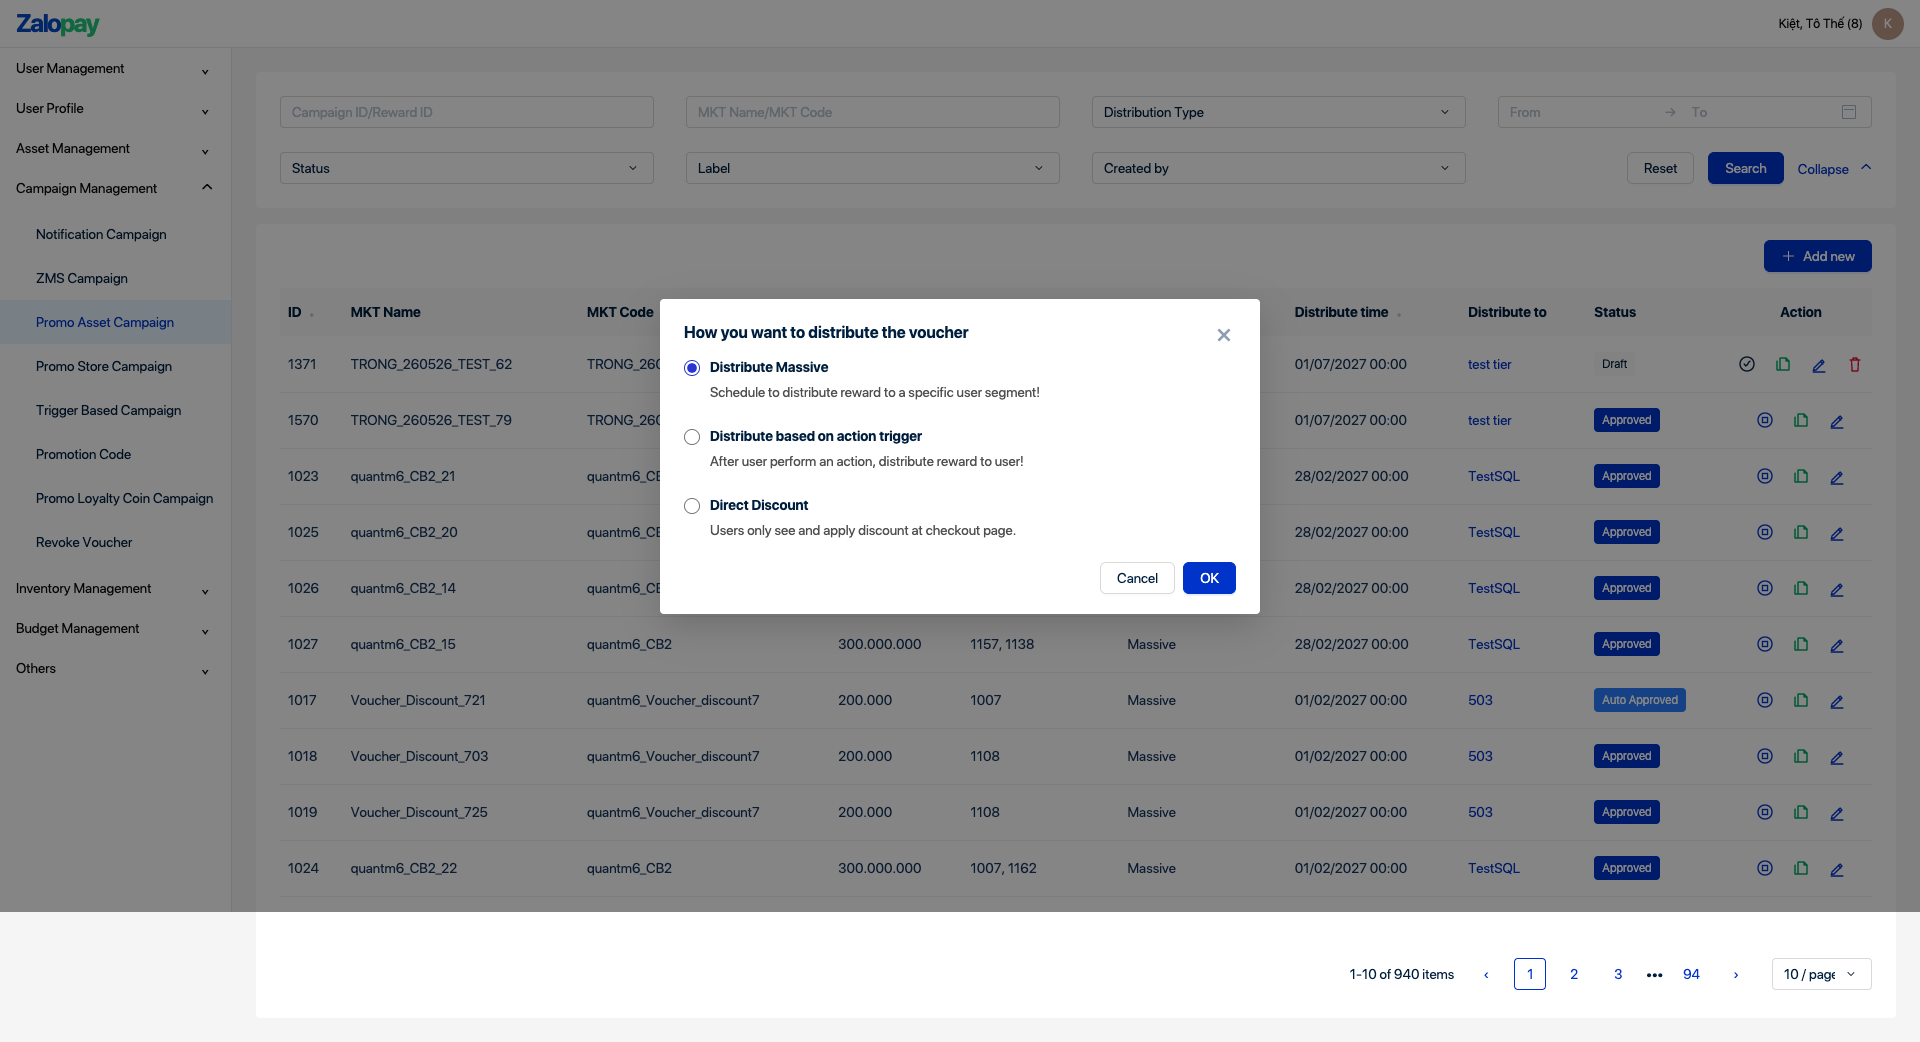
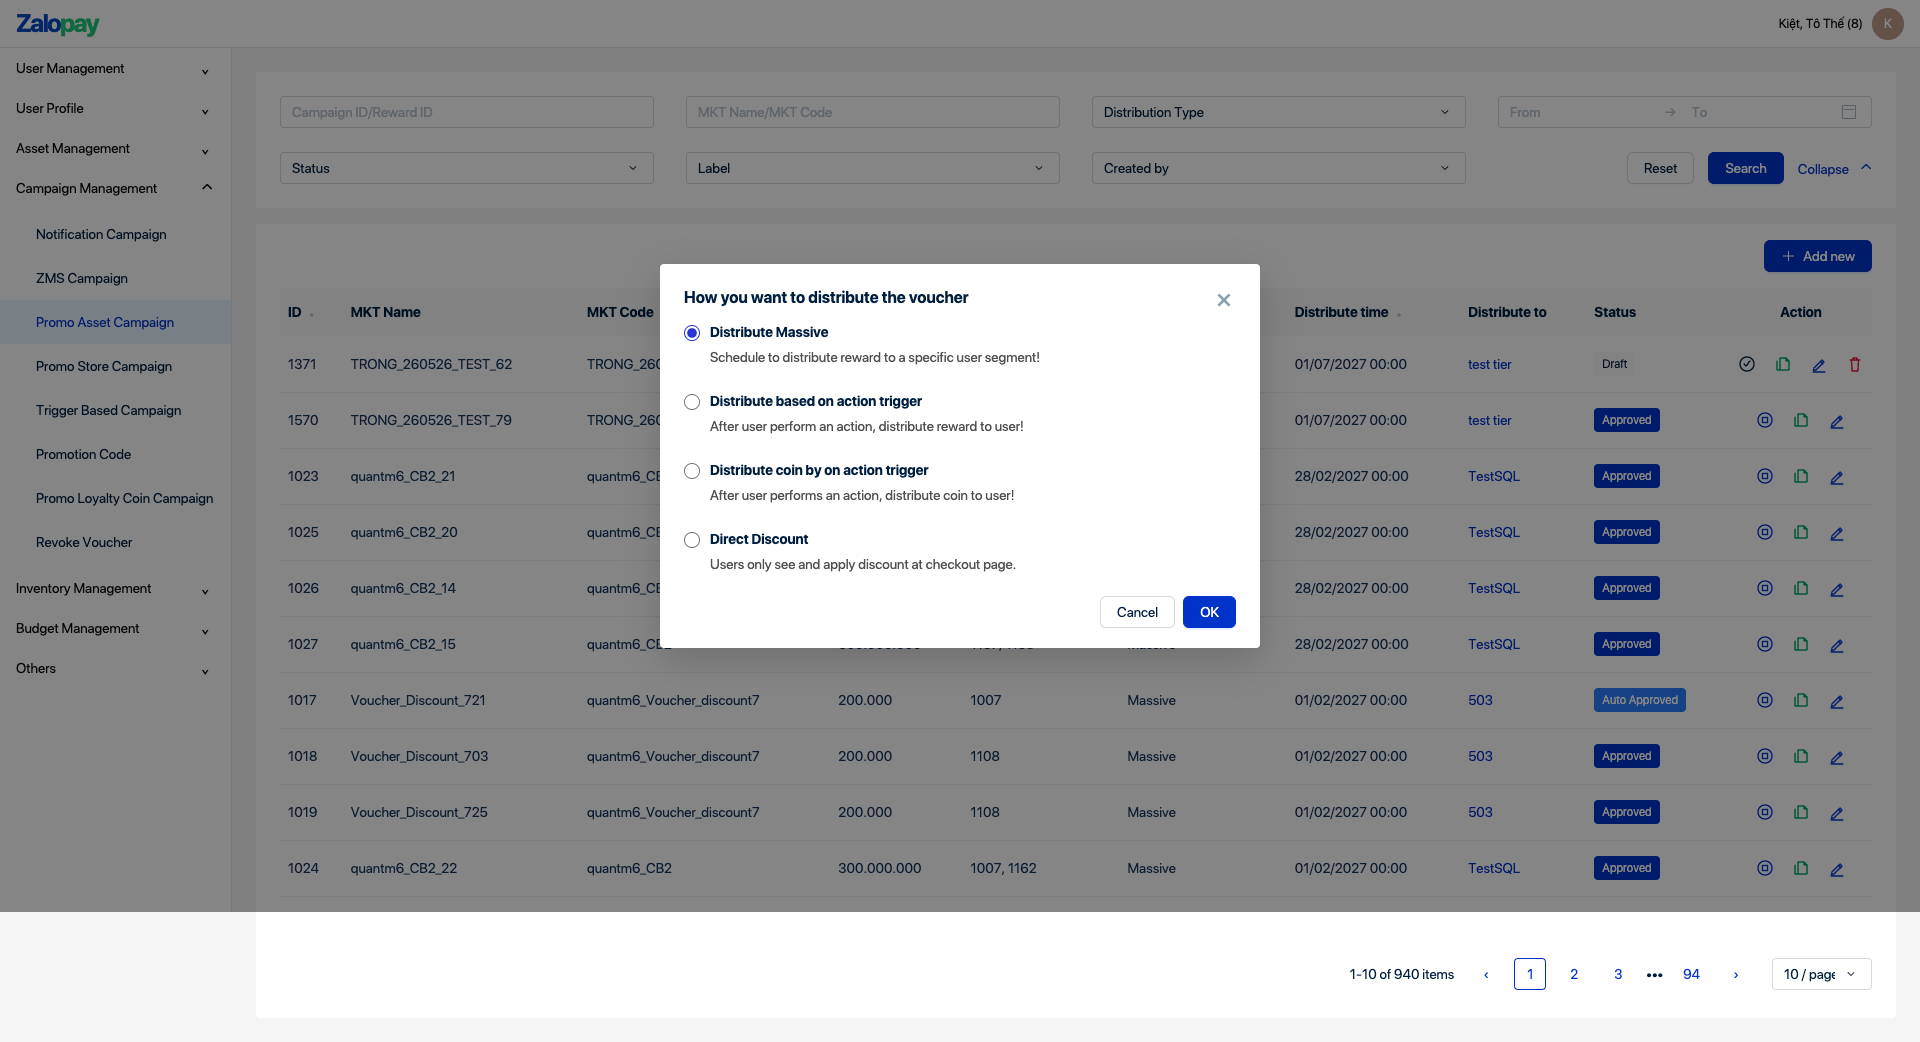
Add coin create entry to Promo Asset flow

Changed region(s): [[0.3438, 0.2457, 0.6562, 0.5528], [0.3438, 0.5221, 0.6562, 0.6449]]

diff --git a/app.js b/app.js
@@ -26,6 +26,7 @@ function isoToDisplay(value) {
 const state = {
   route: "list",
   formMode: "create",
+  formReturnRoute: "list",
   editingCampaignId: null,
   packages: [],
   emails: [],
@@ -87,7 +88,8 @@ const templates = {
   form: document.getElementById("formTemplate"),
   trigger: document.getElementById("triggerTemplate"),
   "asset-list": document.getElementById("assetListTemplate"),
-  "asset-massive": document.getElementById("assetMassiveTemplate")
+  "asset-massive": document.getElementById("assetMassiveTemplate"),
+  "asset-coin-create": document.getElementById("formTemplate")
 };
 
 function toast(message, type = "") {
@@ -137,12 +139,13 @@ function route(name, payload = {}) {
   document.body.classList.toggle("asset-mode", name.startsWith("asset-"));
   main.onclick = null;
   main.replaceChildren(templates[name].content.cloneNode(true));
-  document.querySelectorAll("[data-route]").forEach(button => button.classList.toggle("active", button.dataset.route === name || (name === "form" && button.dataset.route === "list") || (name === "asset-massive" && button.dataset.route === "asset-list")));
+  document.querySelectorAll("[data-route]").forEach(button => button.classList.toggle("active", button.dataset.route === name || (name === "form" && button.dataset.route === "list") || (["asset-massive", "asset-coin-create"].includes(name) && button.dataset.route === "asset-list")));
   if (name === "list") initList();
   if (name === "form") initForm(payload);
   if (name === "trigger") initTrigger();
   if (name === "asset-list") initAssetList();
   if (name === "asset-massive") initAssetMassive();
+  if (name === "asset-coin-create") initForm({ mode: "create", returnRoute: "asset-list" });
   document.getElementById("sidebar").classList.remove("open");
   main.focus();
 }
@@ -175,6 +178,7 @@ function initAssetList() {
     if (dialog.returnValue !== "confirm") return;
     const choice = dialog.querySelector('input[name="distributionChoice"]:checked')?.value;
     if (choice === "massive") route("asset-massive");
+    else if (choice === "coin-trigger") route("asset-coin-create");
     else toast("Demo hiện tại tập trung flow Distribute Massive.");
   });
   document.getElementById("assetCollapseFilter").onclick = event => {
@@ -322,6 +326,7 @@ function initList() {
 
 function initForm(options = {}) {
   state.formMode = options.mode || "create";
+  state.formReturnRoute = options.returnRoute || "list";
   state.editingCampaignId = options.id || null;
   const campaign = getEditingCampaign();
   if (state.formMode !== "create" && !campaign) return route("list");
@@ -394,7 +399,7 @@ function renderFormActions(campaign) {
   } else if (state.formMode === "edit") {
     holder.innerHTML = '<button type="button" class="btn secondary" id="cancelForm">Cancel</button><button type="button" class="btn primary" id="saveChanges">Save changes</button>';
   }
-  document.getElementById("cancelForm").onclick = () => route("list");
+  document.getElementById("cancelForm").onclick = () => route(state.formReturnRoute);
   if (state.formMode === "create") {
     document.getElementById("saveDraft").onclick = () => submitCampaign(true);
     document.getElementById("campaignForm").onsubmit = event => { event.preventDefault(); submitCampaign(false); };
@@ -677,7 +682,7 @@ function submitCampaign(draft) {
   if (presents.length) data.packages = data.packages.map((pkg, index) => ({ ...pkg, presentId: presents[index] }));
   state.campaigns.unshift({ ...data, id, presents, status, owner: "kiettt8" });
   toast(draft ? `Campaign ${id} đã Save Draft.` : `Campaign ${id}: ${status}${status === "Auto Approved" ? ", Present ID đã generate." : "."}`);
-  setTimeout(() => route("list"), 500);
+  setTimeout(() => route(state.formReturnRoute), 500);
 }
 
 function saveCampaignEdit(campaign) {

diff --git a/index.html b/index.html
@@ -116,6 +116,7 @@
           <div class="asset-dialog-heading"><h1 id="assetChoiceTitle">How you want to distribute the voucher</h1><button value="cancel" aria-label="Close dialog" class="asset-dialog-close">×</button></div>
           <label class="asset-choice"><input type="radio" name="distributionChoice" value="massive" checked><span><strong>Distribute Massive</strong><small>Schedule to distribute reward to a specific user segment!</small></span></label>
           <label class="asset-choice"><input type="radio" name="distributionChoice" value="trigger"><span><strong>Distribute based on action trigger</strong><small>After user perform an action, distribute reward to user!</small></span></label>
+          <label class="asset-choice"><input type="radio" name="distributionChoice" value="coin-trigger"><span><strong>Distribute coin by on action trigger</strong><small>After user performs an action, distribute coin to user!</small></span></label>
           <label class="asset-choice"><input type="radio" name="distributionChoice" value="direct-discount"><span><strong>Direct Discount</strong><small>Users only see and apply discount at checkout page.</small></span></label>
           <div class="asset-dialog-actions"><button value="cancel" class="asset-btn secondary">Cancel</button><button value="confirm" class="asset-btn primary" id="confirmAssetType">OK</button></div>
         </form>

diff --git a/README.md b/README.md
@@ -19,12 +19,13 @@ http://127.0.0.1:4173
 ## Flow có thể demo
 
 1. Promo Asset Campaign: Campaign List → Add new → chọn Distribute Massive → Massive form.
-2. Loyalty Coin Campaign List: Search, Reset, Collapse, View và Edit.
-3. Create Loyalty Coin Campaign: Shared/Non-shared budget, Control by Campaign/Package.
-4. Distribution Package: By Budget, Add/Remove, max 10 package và tự tính budget.
-5. Budget Alert: nhập username/email và threshold bằng phím Enter.
-6. Submit: Auto Approved hoặc FA Review theo Coin Per User.
-7. Generate Present ID: mô phỏng all package thành công sau Auto Approved.
-8. Trigger Based Campaign: chọn Campaign trước, sau đó Present ID mới được enable và load đúng package.
+2. Promo Asset Campaign: Campaign List → Add new → chọn Distribute coin by on action trigger → Create Loyalty Coin Campaign.
+3. Loyalty Coin Campaign List: Search, Reset, Collapse, View và Edit.
+4. Create Loyalty Coin Campaign: Shared/Non-shared budget, Control by Campaign/Package.
+5. Distribution Package: By Budget, Add/Remove, max 10 package và tự tính budget.
+6. Budget Alert: nhập username/email và threshold bằng phím Enter.
+7. Submit: Auto Approved hoặc FA Review theo Coin Per User.
+8. Generate Present ID: mô phỏng all package thành công sau Auto Approved.
+9. Trigger Based Campaign: chọn Campaign trước, sau đó Present ID mới được enable và load đúng package.
 
-`qa.mjs` kiểm tra Loyalty Coin flow. `qa-asset.mjs` kiểm tra Promo Asset flow và chụp ba state đối chiếu Figma.
+`qa.mjs` kiểm tra Loyalty Coin flow. `qa-asset.mjs` kiểm tra Promo Asset Massive và Coin Create flow.
